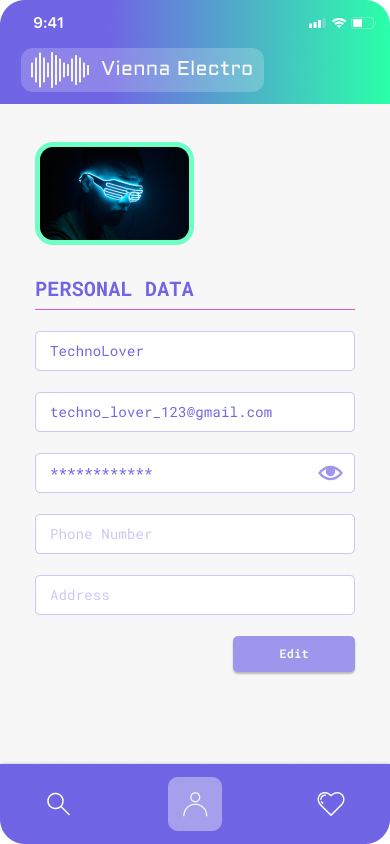
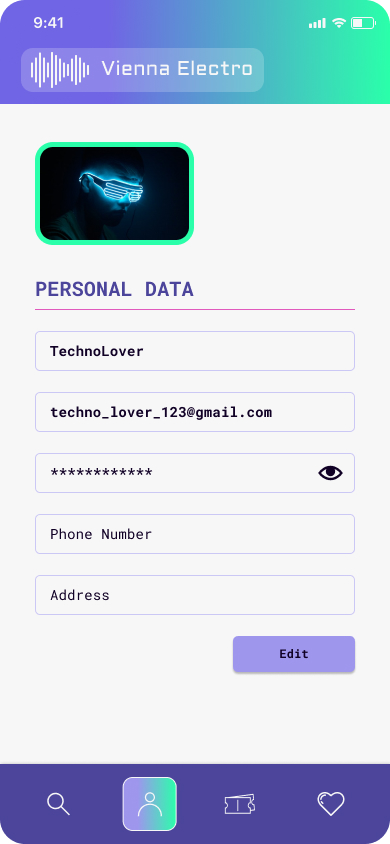
added update images for vienna electro app

diff --git a/vienna-electro.html b/vienna-electro.html
@@ -100,10 +100,10 @@
           alt="" />
       </a>
       <a
-        href="assets/img/prototypes/vienna-electro/HomeToday.png"
+        href="assets/img/prototypes/vienna-electro/Home.png"
         target="_self"
         aria-label="Prototype image of Home Page">
-        <img src="assets/img/prototypes/vienna-electro/HomeToday.png" alt="" />
+        <img src="assets/img/prototypes/vienna-electro/Home.png" alt="" />
       </a>
       <a
         href="assets/img/prototypes/vienna-electro/EventDetails.png"
@@ -118,6 +118,34 @@
         target="_self"
         aria-label="Prototype image of User Profile Page">
         <img src="assets/img/prototypes/vienna-electro/Account.jpg" alt="" />
+      </a>
+      <a
+        href="assets/img/prototypes/vienna-electro/HomeDark.png"
+        target="_self"
+        aria-label="Prototype image of Home Page in dark theme">
+        <img src="assets/img/prototypes/vienna-electro/HomeDark.png" alt="" />
+      </a>
+      <a
+        href="assets/img/prototypes/vienna-electro/AccountDark.png"
+        target="_self"
+        aria-label="Prototype image of User Profile Page in dark theme">
+        <img
+          src="assets/img/prototypes/vienna-electro/AccountDark.png"
+          alt="" />
+      </a>
+      <a
+        href="assets/img/prototypes/vienna-electro/CartDark.png"
+        target="_self"
+        aria-label="Prototype image of checkout flow in dark theme">
+        <img src="assets/img/prototypes/vienna-electro/CartDark.png" alt="" />
+      </a>
+      <a
+        href="assets/img/prototypes/vienna-electro/TicketsDark.png"
+        target="_self"
+        aria-label="Prototype image of tickets page in dark theme">
+        <img
+          src="assets/img/prototypes/vienna-electro/TicketsDark.png"
+          alt="" />
       </a>
     </section>
 
@@ -225,14 +253,15 @@
     </section>
 
     <!-- Design -->
-    <section class="project-prototype">
+    <!-- <section class="project-prototype">
       <h2 class="project-subtitle-electro">Design</h2>
       <h4>Checkout the prototype here:</h4>
       <iframe
         style="border: 1px solid rgba(0, 0, 0, 0.1)"
-        src="https://embed.figma.com/design/zNVr7ccqOcJowD1PbRqINH/Vienna-ELECTRO?node-id=1-792&embed-host=share"
-        allowfullscreen></iframe>
-    </section>
+        src="https://www.figma.com/proto/zNVr7ccqOcJowD1PbRqINH/Vienna-ELECTRO?page-id=0%3A1&node-id=1-860&node-type=canvas&viewport=343%2C529%2C0.13&t=hgN95vx8WxWm5PNg-8&scaling=scale-down&content-scaling=responsive&starting-point-node-id=1%3A860&show-proto-sidebar=1&hide-ui=1"
+        allowfullscreen>
+      </iframe>
+    </section> -->
 
     <section class="project-prototype">
       <h2 class="project-subtitle-electro">Concusion</h2>

diff --git a/music-zone.html b/music-zone.html
@@ -163,15 +163,15 @@
     </section>
 
     <!-- Design -->
-    <section class="project-prototype">
+    <!-- <section class="project-prototype">
       <h2 class="project-subtitle-musiczone">Design</h2>
       <h4>Checkout the prototype here:</h4>
       <iframe
         style="border: 1px solid rgba(0, 0, 0, 0.1)"
-        src="https://www.figma.com/embed?embed_host=share&url=https%3A%2F%2Fwww.figma.com%2Fproto%2FyeIdCkbQcsRjkHRkHesk8B%2FMusic-Sheet-App%3Fnode-id%3D2-2%26t%3D3azB7kGt8ZKMR9Mm-1%26scaling%3Dscale-down%26content-scaling%3Dfixed%26page-id%3D0%253A1"
+        src=""
         allowfullscreen>
       </iframe>
-    </section>
+    </section> -->
 
     <!-- Ideation -->
     <section class="project-ideation">

diff --git a/bee-buy.html b/bee-buy.html
@@ -107,15 +107,15 @@
     </section>
 
     <!-- Design -->
-    <section class="project-prototype">
+    <!-- <section class="project-prototype">
       <h2 class="project-subtitle-beebuy">Design</h2>
       <h4>Checkout the prototype here:</h4>
       <iframe
         style="border: 1px solid rgba(0, 0, 0, 0.1)"
-        src="https://www.figma.com/embed?embed_host=share&url=https%3A%2F%2Fwww.figma.com%2Fproto%2F27DYhpSCaXtDksb8b71wmz%2FBeeBuy%3Fnode-id%3D1-2%26t%3Dd1FwfiAqs0UV0M2W-1%26scaling%3Dscale-down-width%26content-scaling%3Dfixed%26page-id%3D0%253A1"
+        src=""
         allowfullscreen>
       </iframe>
-    </section>
+    </section> -->
 
     <!-- Ideation -->
     <section class="project-ideation">
